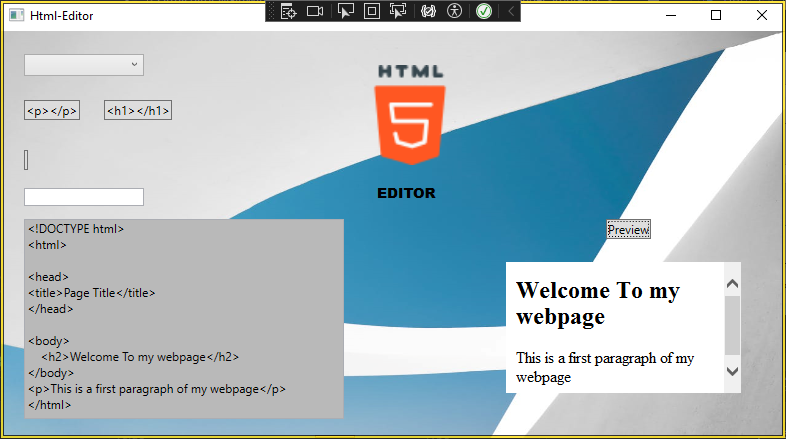
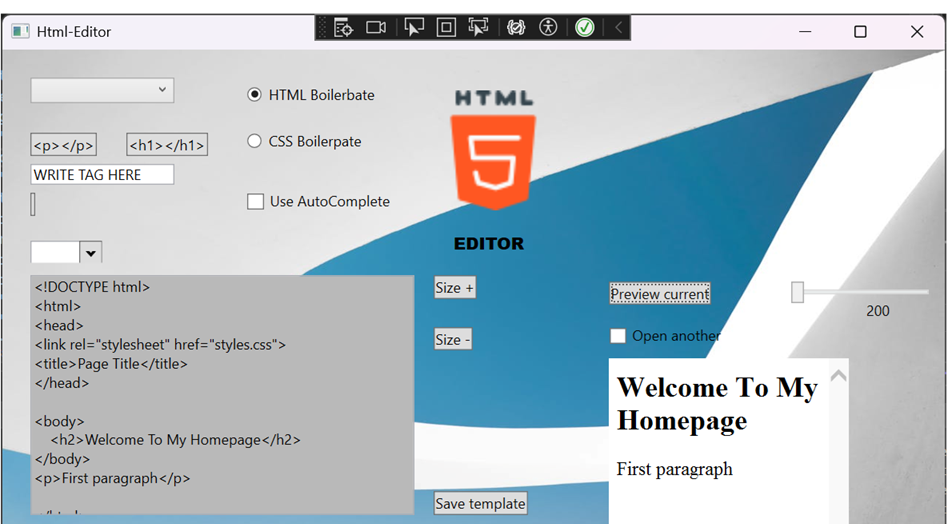
responsive features added.

diff --git a/HtmlEditor/MainWindow.xaml b/HtmlEditor/MainWindow.xaml
@@ -13,7 +13,7 @@
         <ImageBrush ImageSource="/images/bgMedium.jpg"></ImageBrush>
     </Window.Background>
     <Grid KeyDown="Grid_KeyDown">
-        <TextBox x:Name="txtBox" HorizontalAlignment="Left" Margin="23,188,0,0" TextWrapping="Wrap" VerticalAlignment="Top" Width="320" Height="200"  Background="#FFB9B9B9" AllowDrop="True" Drop="txtBox_Drop" AcceptsReturn="True" KeyDown="txtBox_KeyDown"/>
+        <TextBox x:Name="txtBox" HorizontalAlignment="Left" Margin="23,188,0,0" TextWrapping="Wrap" VerticalAlignment="Top" Width="320" Height="200" MinWidth="100" MinHeight="100"  Background="#FFB9B9B9" AllowDrop="True" Drop="txtBox_Drop" AcceptsReturn="True" KeyDown="txtBox_KeyDown"/>
         <Image x:Name="titleImage" HorizontalAlignment="Left" Height="100" Margin="359,34,0,0" VerticalAlignment="Top" Width="100" Source="/images/html64px.png"/>
         <Label x:Name="titleLbl" Content="EDITOR" HorizontalAlignment="Left" Margin="371,149,0,0" VerticalAlignment="Top" Width="88" FontFamily="Arial Black" FontSize="14"/>
         <ComboBox x:Name="Cbox" HorizontalAlignment="Left" Margin="23,23,0,0" VerticalAlignment="Top" Width="120">
@@ -25,18 +25,19 @@
         <WebBrowser x:Name="wbrow" HorizontalAlignment="Left" Height="131" Margin="505,257,0,0" VerticalAlignment="Top" Width="235" SnapsToDevicePixels="True"/>
         <Button x:Name="tagBtn1" Content="&lt;p&gt;&lt;/p&gt;" HorizontalAlignment="Left" Margin="23,69,0,0" VerticalAlignment="Top" MouseMove="tagBtn1_MouseMove" Visibility="Hidden" />
         <Button x:Name="tagBtn2" Content="&lt;h1&gt;&lt;/h1&gt;" HorizontalAlignment="Left" Margin="103,69,0,0" VerticalAlignment="Top" MouseMove="tagBtn2_MouseMove" Visibility="Hidden"/>
-        <TextBox x:Name="writeTag" HorizontalAlignment="Left" Margin="23,71,0,0" TextWrapping="Wrap" VerticalAlignment="Top" Width="120" LostFocus="writeTag_LostFocus" />
+        <TextBox x:Name="writeTag" HorizontalAlignment="Left" Margin="23,95,0,0" TextWrapping="Wrap" VerticalAlignment="Top" Width="120" LostFocus="writeTag_LostFocus" Text="WRITE TAG HERE" />
         <Button x:Name="writedTag" Content="" HorizontalAlignment="Left" Margin="23,119,0,0" VerticalAlignment="Top" MouseMove="writedTag_MouseMove"/>
-        <Button x:Name="saveBtn" Content="Button" HorizontalAlignment="Left" Margin="314,404,0,0" VerticalAlignment="Top" Click="saveBtn_Click"/>
+        <Button x:Name="saveBtn" Content="Save template" HorizontalAlignment="Left" Margin="359,368,0,0" VerticalAlignment="Top" Click="saveBtn_Click"/>
         <Button x:Name="viewBtn" Content="Preview current" HorizontalAlignment="Left" Margin="505,193,0,0" VerticalAlignment="Top" Click="viewBtn_Click"/>
         <RadioButton x:Name="htmlRadio" Content="HTML Boilerbate" HorizontalAlignment="Left" Margin="203,30,0,0" VerticalAlignment="Top" Checked="htmlRadio_Checked"/>
         <RadioButton x:Name="cssRadio" Content="CSS Boilerpate" HorizontalAlignment="Left" Margin="203,69,0,0" VerticalAlignment="Top" Click="cssRadio_Click"/>
         <CheckBox x:Name="autoCompCB" Content="Use AutoComplete" HorizontalAlignment="Left" Margin="203,119,0,0" VerticalAlignment="Top" Checked="autoCompCB_Checked" Unchecked="autoCompCB_Unchecked"/>
         <controls:AutoCompleteBox x:Name="acbox"  HorizontalAlignment="Left"  VerticalAlignment="Top" Margin="43,153,0,0" Width="100" Visibility="Hidden"></controls:AutoCompleteBox>
-        <Button x:Name="boxIncrease" Content="+" HorizontalAlignment="Left" Margin="359,188,0,0" VerticalAlignment="Top" Click="boxIncrease_Click" RenderTransformOrigin="-0.382,-0.048"/>
-        <Button x:Name="boxDecrease" Content="Button" HorizontalAlignment="Left" Margin="359,231,0,0" VerticalAlignment="Top" Click="boxDecrease_Click"/>
+        <Button x:Name="boxIncreaseBtn" Content="Size +" HorizontalAlignment="Left" Margin="359,188,0,0" VerticalAlignment="Top" Click="boxIncrease_Click" RenderTransformOrigin="-0.382,-0.048"/>
+        <Button x:Name="boxDecreaseBtn" Content="Size -" HorizontalAlignment="Left" Margin="359,231,0,0" VerticalAlignment="Top" Click="boxDecrease_Click"/>
         <xctk:ColorPicker x:Name="ClrPcker" HorizontalAlignment="Left" VerticalAlignment="Top" Width="60" Height="20" Margin="23,159,0,255" SelectedColorChanged="ClrPcker_SelectedColorChanged"></xctk:ColorPicker>
         <Slider x:Name="previewSlider" HorizontalAlignment="Left" Margin="657,193,0,0" VerticalAlignment="Top" Width="120" Minimum="200" ValueChanged="previewSlider_ValueChanged" Maximum="400"/>
+        <!-- labelin bindaus slider valuen lanssa -->
         <Label x:Name="sliderVal" Content="{Binding ElementName=previewSlider, Path=Value, UpdateSourceTrigger=PropertyChanged}" HorizontalAlignment="Left" Margin="715,204,0,0" VerticalAlignment="Top"/>
         <CheckBox x:Name="openAnother" Content="Open another" HorizontalAlignment="Left" Margin="505,231,0,0" VerticalAlignment="Top" Checked="openAnother_Checked" />
     </Grid>

diff --git a/HtmlEditor/Sizing.cs b/HtmlEditor/Sizing.cs
@@ -3,33 +3,82 @@ using System.Collections.Generic;
 using System.Linq;
 using System.Text;
 using System.Threading.Tasks;
+using System.Windows;
 
 namespace HtmlEditor
 {
     public class Sizing
     {
-        public void txtBoxBigger(System.Windows.Controls.TextBox txtBox, double txtBoxHeight, double txtBoxWidth)
+        private double saveBtnMarginLeft;
+        public double SaveBtnMarginLeft
+        {
+            get { return saveBtnMarginLeft; }
+            set { saveBtnMarginLeft = value; }
+
+        }
+        private double sizeBtnPlus;
+        public double SizeBtnPlus
+        {
+            get { return sizeBtnPlus; }
+            set {  sizeBtnPlus = value; }
+        }
+
+        private double sizeBtnMinus;
+        public double SizeBtnMinus
+        {
+            get { return sizeBtnMinus; }
+            set { sizeBtnMinus = value; }
+        }
+        public void txtBoxBigger(System.Windows.Controls.TextBox txtBox, double txtBoxHeight, double txtBoxWidth, System.Windows.Controls.Button saveBtn, System.Windows.Controls.Button boxDecreaseBtn, System.Windows.Controls.Button boxIncreaseBtn)
         {
             txtBoxHeight += 5;
             txtBoxWidth += 5;
             txtBox.Height = txtBoxHeight;
             txtBox.Width = txtBoxWidth;
+            
+            //asetetaan savemarginleft propertyn avulla buttonin margin left arvo SaveBtnMarginLeft
+            //kenttään.
+            SaveBtnMarginLeft = saveBtn.Margin.Left;
+            SizeBtnPlus = boxIncreaseBtn.Margin.Left;
+            SizeBtnMinus = boxDecreaseBtn.Margin.Left;
+            //kun txtboxin leveys on yli 330 pikseliä, siirretään savebuttonia 5 pikseliä vasemmalle.
+            if (txtBoxWidth > 330)
+            {
+
+                saveBtnMarginLeft += 5;
+                sizeBtnPlus += 5;
+                sizeBtnMinus += 5;
+                saveBtn.Margin = new System.Windows.Thickness(saveBtnMarginLeft,saveBtn.Margin.Top,saveBtn.Margin.Right,saveBtn.Margin.Bottom);
+                boxDecreaseBtn.Margin = new System.Windows.Thickness(sizeBtnPlus, boxDecreaseBtn.Margin.Top,boxDecreaseBtn.Margin.Right, boxDecreaseBtn.Margin.Bottom);
+                boxIncreaseBtn.Margin = new System.Windows.Thickness(sizeBtnMinus, boxIncreaseBtn.Margin.Top, boxDecreaseBtn.Margin.Right, boxDecreaseBtn.Margin.Bottom);
+            }
         }
 
-        public void txtBoxSmaller(System.Windows.Controls.TextBox txtBox, double txtBoxHeight, double txtBoxWidth)
+        public void txtBoxSmaller(System.Windows.Controls.TextBox txtBox, double txtBoxHeight, double txtBoxWidth, System.Windows.Controls.Button saveBtn)
         {
             txtBoxHeight -= 5;
             txtBoxWidth -= 5;
+            //txtboxsin minimiarvot, jos mennään näiden alapuolelle boksi ei enää pienene
+            txtBox.MinHeight = 200;
+            txtBox.MinWidth = 200;
             txtBox.Height = txtBoxHeight;
             txtBox.Width = txtBoxWidth;
+            SaveBtnMarginLeft = saveBtn.Margin.Left;
+            if (txtBoxWidth< 330)
+            {
+                saveBtnMarginLeft -= 5;
+                saveBtn.Margin = new System.Windows.Thickness(saveBtnMarginLeft, saveBtn.Margin.Top, saveBtn.Margin.Right, saveBtn.Margin.Bottom);
+
+            }
+         
 
         }
 
-        public void previewWindowSize(double value, System.Windows.Controls.WebBrowser wbrow, System.Windows.Controls.Label sliderVal)
+        public void previewWindowSize(double value, System.Windows.Controls.WebBrowser wbrow)
         {
             wbrow.Width = value;
             wbrow.Height = value;
-            //sliderVal.Content = value.ToString();
+            
         }
     }
 }

diff --git a/HtmlEditor/MainWindow.xaml.cs b/HtmlEditor/MainWindow.xaml.cs
@@ -222,7 +222,7 @@ namespace HtmlEditor
         {
             double txtBoxHeight = txtBox.Height;
             double txtBoxWidth = txtBox.Width;
-            sizing.txtBoxBigger(txtBox, txtBoxHeight, txtBoxWidth);
+            sizing.txtBoxBigger(txtBox, txtBoxHeight, txtBoxWidth,saveBtn,boxDecreaseBtn,boxIncreaseBtn);
 
 
         }
@@ -231,7 +231,7 @@ namespace HtmlEditor
         {
             double txtBoxHeight = txtBox.Height;
             double txtBoxWidth = txtBox.Width;
-            sizing.txtBoxSmaller(txtBox, txtBoxHeight, txtBoxWidth);
+            sizing.txtBoxSmaller(txtBox, txtBoxHeight, txtBoxWidth,saveBtn);
 
         }
 
@@ -275,7 +275,7 @@ namespace HtmlEditor
 
         private void previewSlider_ValueChanged(object sender, RoutedPropertyChangedEventArgs<double> e)
         {
-            sizing.previewWindowSize(previewSlider.Value, wbrow, sliderVal);
+            sizing.previewWindowSize(previewSlider.Value, wbrow);
 
         }
 

diff --git a/README.md b/README.md
@@ -9,7 +9,7 @@ A Windows Presentation Foundation-based desktop application that helps the user 
 HTML TAGS SHORTCUTS
 
 For now, the application supports adding single-letter HTML tags using keyboard shortcuts.
-For example, Control+p will add a <p></p> tag to the position in the editing view where the cursor is. The application determines the cursor position using the CaretIndex property in C#.
+For example, Control+p will add a p tag to the position in the editing view where the cursor is. The application determines the cursor position using the CaretIndex property in C#.
 (https://learn.microsoft.com/en-us/dotnet/api/system.windows.controls.textbox.caretindex?view=windowsdesktop-9.0). Keyboard bindings are done with C# WPF KeyDown events.
 
 AUTOCOMPLETE TEXT
@@ -22,10 +22,11 @@ The suggested HTML tags are loaded from a text file used by the application base
 Example image of the auto-fill feature in use
 ![alt text](HtmlEditor/images/wpfAC.png)
 
-RESPONSIVE FEATURES
+SIZING & RESPONSIVE FEATURES
 
-Both the edit and preview windows can be resized. The edit window can be resized by clicking the plus or minus button. Each click changes the width and height of the window by 5 pixels.
-The preview window can be resized using the WPF slider component.
+Both the edit and preview windows can be resized. The edit window can be resized by clicking the plus or minus button. Each click changes the width and height of the window by 5 pixels. The preview window can be resized using the WPF slider component.
+
+When the user increases or decreases the size of the text box, the button elements in the UI react to the size changes. When the size increases, the button elements move horizontally 5 pixels to the right per click, and when the size decreases, they move horizontally 5 pixels to the left.
 
 SAVE AND LOAD FILE
 
